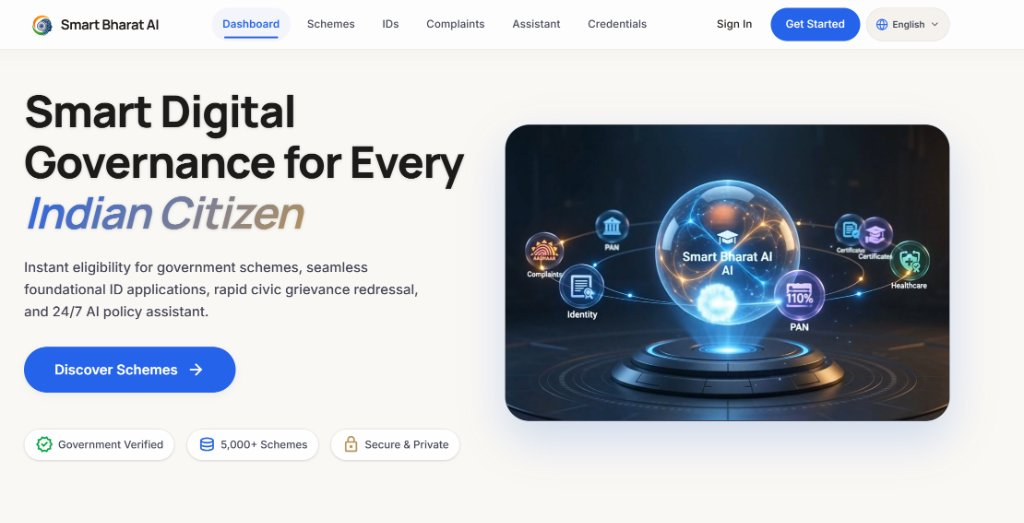
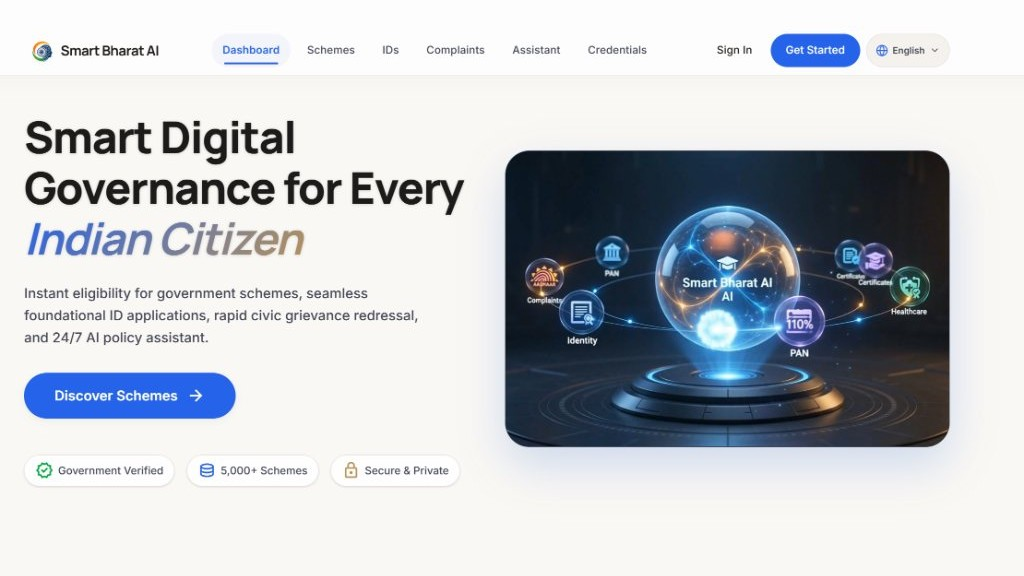
fix(projects): remove dark gradient overlay and set 16:9 aspect ratio for screenshots

diff --git a/src/components/Projects.tsx b/src/components/Projects.tsx
@@ -45,25 +45,25 @@ export const Projects: React.FC = () => {
             className="group relative glass-panel-dark rounded-3xl overflow-hidden border border-white/10 hover:border-[#FF2A2A]/50 transition-all duration-500 flex flex-col justify-between"
           >
             {/* Project Image Container */}
-            <div className="relative aspect-[16/10] overflow-hidden bg-gray-900">
+            <div className="relative aspect-video overflow-hidden bg-black/40 border-b border-white/10">
               <img
                 src={project.image}
                 alt={project.title}
-                className="w-full h-full object-cover transition-transform duration-700 group-hover:scale-110 group-hover:brightness-110"
+                className="w-full h-full object-cover object-center transition-transform duration-700 group-hover:scale-[1.03] group-hover:brightness-105"
               />
-              <div className="absolute inset-0 bg-gradient-to-t from-[#111111] via-transparent to-transparent opacity-80" />
-
-              <div className="absolute top-4 right-4 bg-black/60 backdrop-blur-md px-3 py-1 rounded-full text-xs font-mono text-white/90 border border-white/10">
-                {project.year}
-              </div>
             </div>
 
             {/* Content Details */}
             <div className="p-6 sm:p-8 flex flex-col justify-between flex-grow">
               <div>
-                <span className="text-xs font-mono uppercase tracking-widest text-[#FF2A2A] font-bold block mb-2">
-                  {project.category}
-                </span>
+                <div className="flex items-center justify-between mb-2">
+                  <span className="text-xs font-mono uppercase tracking-widest text-[#FF2A2A] font-bold">
+                    {project.category}
+                  </span>
+                  <span className="text-xs font-mono px-2.5 py-0.5 rounded-full bg-white/5 border border-white/10 text-white/70">
+                    {project.year}
+                  </span>
+                </div>
 
                 <h3 className="font-syne font-extrabold text-2xl sm:text-3xl text-white group-hover:text-[#FF2A2A] transition-colors mb-3">
                   {project.title}
@@ -126,13 +126,12 @@ export const Projects: React.FC = () => {
                 <X className="w-6 h-6" />
               </button>
 
-              <div className="aspect-video w-full relative">
+              <div className="aspect-video w-full relative border-b border-white/10 bg-black/40">
                 <img
                   src={selectedProject.image}
                   alt={selectedProject.title}
-                  className="w-full h-full object-cover"
+                  className="w-full h-full object-cover object-center"
                 />
-                <div className="absolute inset-0 bg-gradient-to-t from-[#1c1c1c] via-transparent to-transparent" />
               </div>
 
               <div className="p-6 sm:p-8">

diff --git a/memory/changelog.md b/memory/changelog.md
@@ -1,6 +1,10 @@
 # Project Changelog
 
 ## [Unreleased]
+### Fixed
+- Fixed project screenshot visibility in `Projects.tsx`: removed heavy `bg-gradient-to-t` bottom dark overlay, changed container aspect ratio to 16:9 (`aspect-video`), and moved year badge to category metadata to prevent obscuring UI elements.
+- Padded `public/smart-bharat-ai.jpg` to precise 16:9 ratio to prevent cropping left navigation text and right 3D graphics.
+
 ### Added
 - Added "Aetheris" AI employee verification ecosystem with Next.js 15, Express 5, Prisma/MongoDB, Gemini API, GitHub repo, and screenshot in `public/aetheris.jpg`.
 - Added graceful "Demo Coming Soon" badge fallback in `Projects.tsx` for projects without an active live URL.
